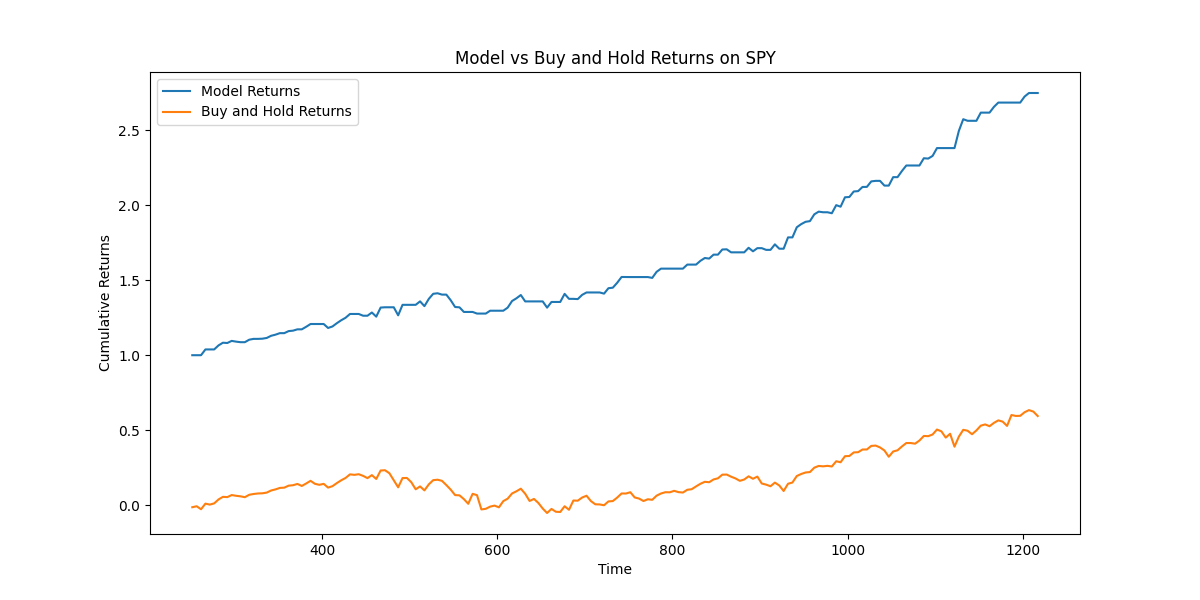
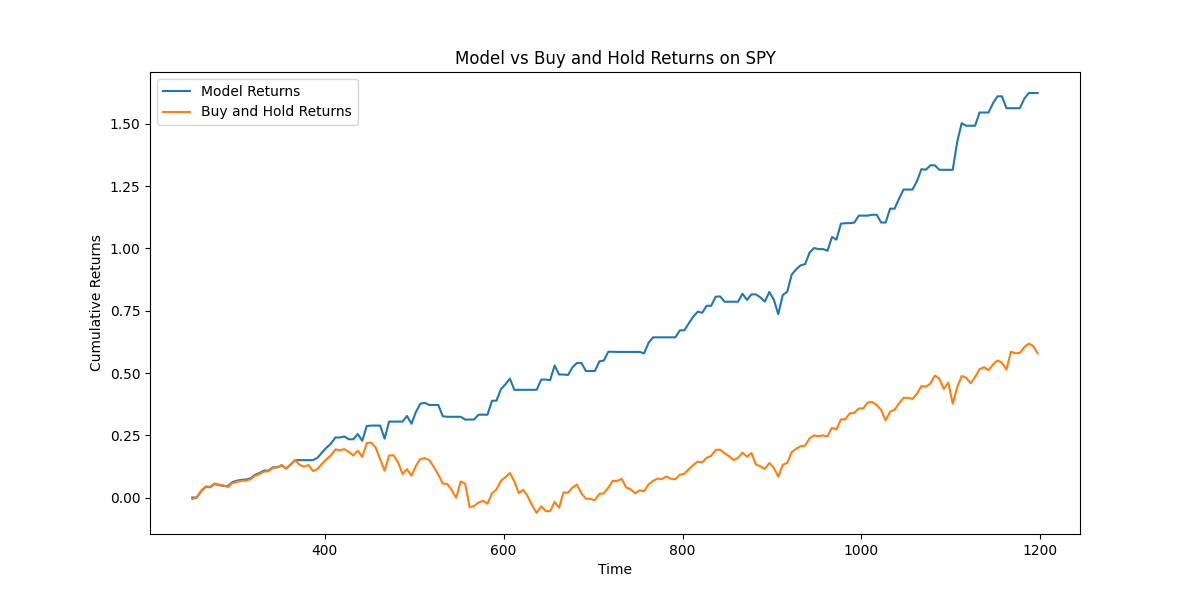
added some more long term features, fixed cumprod (i think), new latest.png

diff --git a/random_forest.py b/random_forest.py
@@ -28,12 +28,16 @@ data['ret_1'] = close.pct_change(1)
 data['ret_5'] = close.pct_change(5)
 data['ret_10'] = close.pct_change(10)
 data['ret_20'] = close.pct_change(20)
+data['ret_30'] = close.pct_change(30)
 data['ma_10'] = close.rolling(10).mean()
 data['ma_20'] = close.rolling(20).mean()
+data['ma_30'] = close.rolling(30).mean()
 data['ma_diff_10'] = close - data['ma_10']
 data['ma_diff_20'] = close - data['ma_20']
+data['ma_diff_30'] = close - data['ma_30']
 data['vol_10'] = data['ret_5'].rolling(10).std()
 data['vol_20'] = data['ret_10'].rolling(20).std()
+data['vol_30'] = data['ret_20'].rolling(30).std()
 data['weekly_return'] = close.pct_change(5).shift(-5)
 data['daily_return'] = close.pct_change(1).shift(-1)
 
@@ -47,7 +51,7 @@ data.dropna(inplace=True)
 print(data.head())
 
 # inputs and labels
-features = ['ret_1', 'ret_5', 'ret_10', 'ret_20', 'ma_10', 'ma_20', 'ma_diff_10', 'ma_diff_20', 'vol_10', 'vol_20']
+features = ['ret_1', 'ret_5', 'ret_10', 'ret_20', 'ret_30', 'ma_10', 'ma_20', 'ma_30', 'ma_diff_10', 'ma_diff_20', 'ma_diff_30', 'vol_10', 'vol_20', 'vol_30']
 X = data[features].values
 y = data['target'].values.reshape(-1, 1)
 
@@ -90,7 +94,7 @@ test_indices = np.array(test_indices)
 print("Accuracy:", accuracy_score(actuals, predictions))
 print(classification_report(actuals, predictions))
 
-cumulative_model_returns = np.cumprod(1 + model_returns)
+cumulative_model_returns = np.cumprod(1 + model_returns) - 1
 returns = data['weekly_return'].values[test_indices]
 buy_and_hold_returns = np.cumprod(1 + returns) - 1
 
